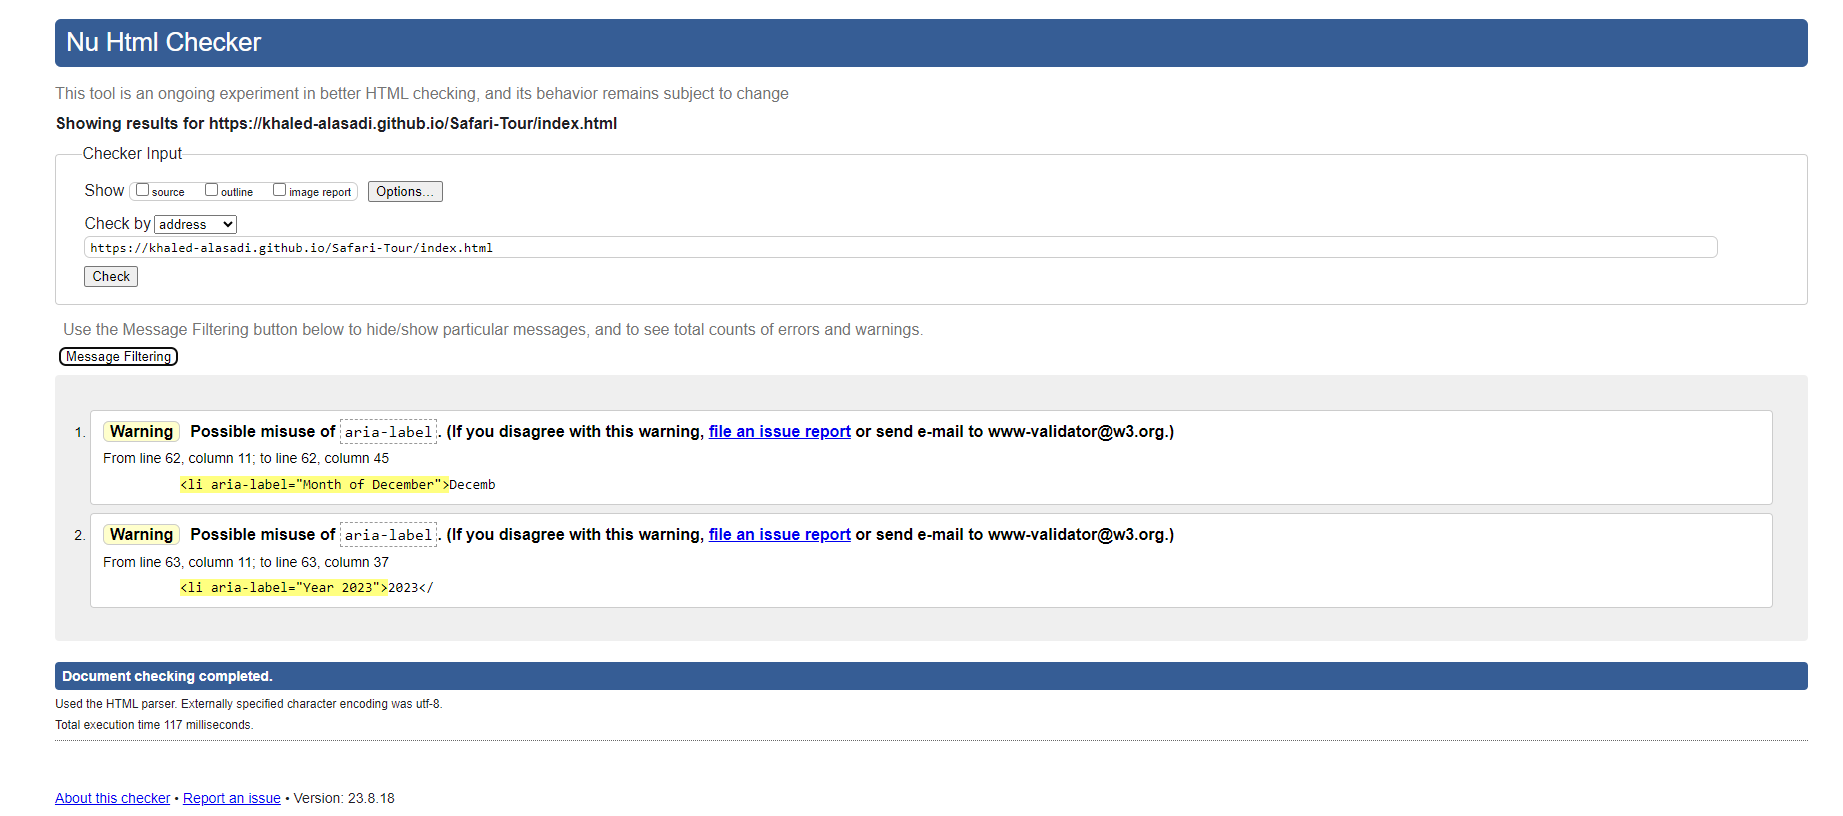
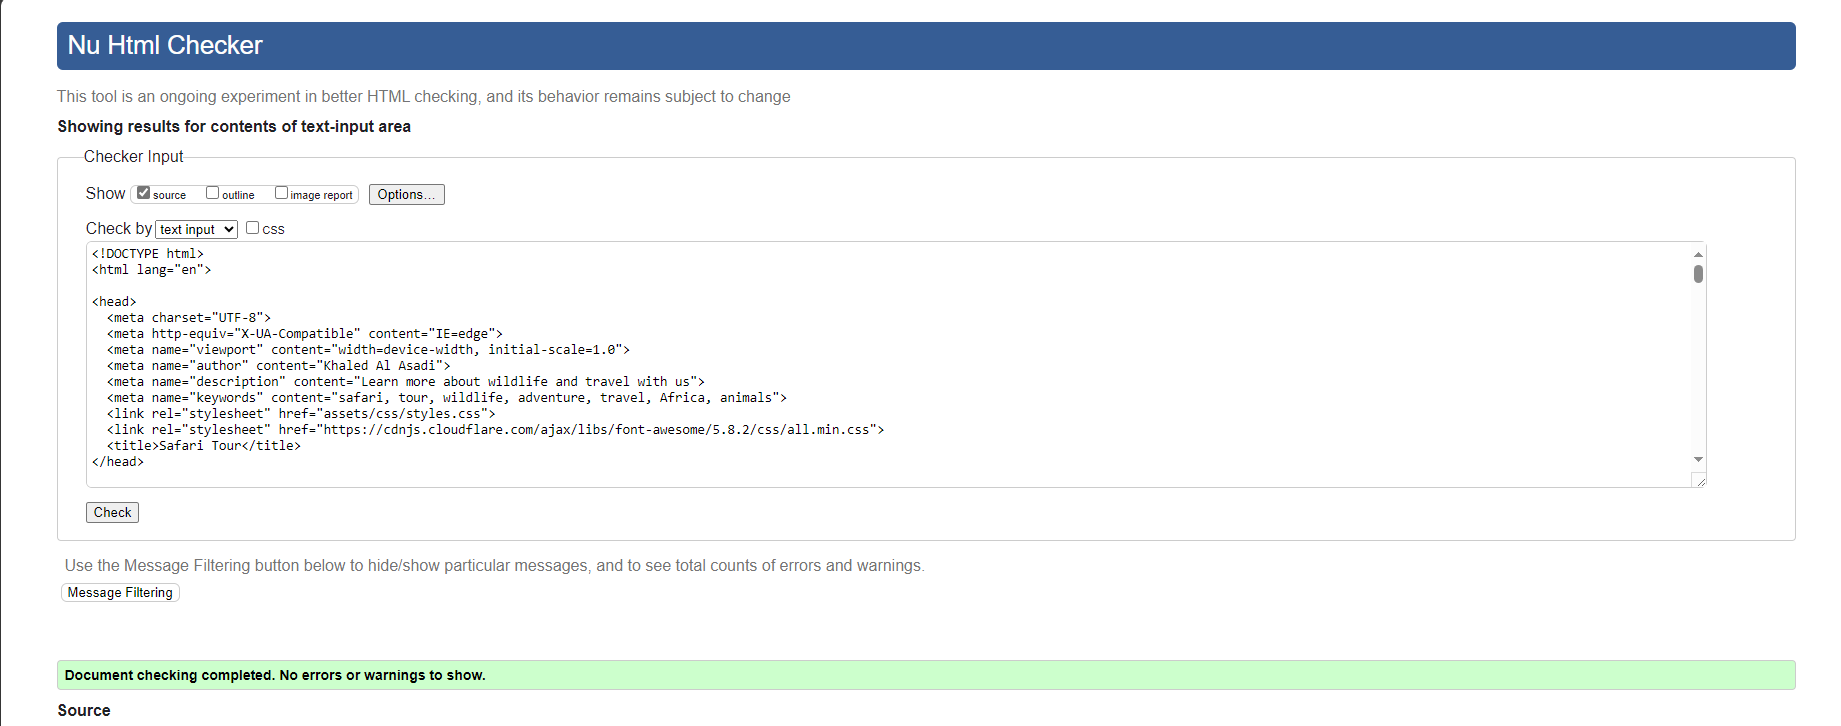
updated picture

Changed region(s): [[0.031, 0.0, 0.9908, 1.0], [0.8979, 0.3636, 0.9288, 0.3939]]

diff --git a/TESTING.md b/TESTING.md
@@ -98,7 +98,7 @@ In order to confirm the correct functionality, responsiveness, and appearance:
 ## Validator testing
 + ### HTML
   #### Home Page
-    - two warnings were found when passing through the official W3C validator.
+    - No errors or warnings were found when passing through the official W3C validator.
 
 
     ![Home Page HTML Validator](documentation/w3_validator_home_page.png)
